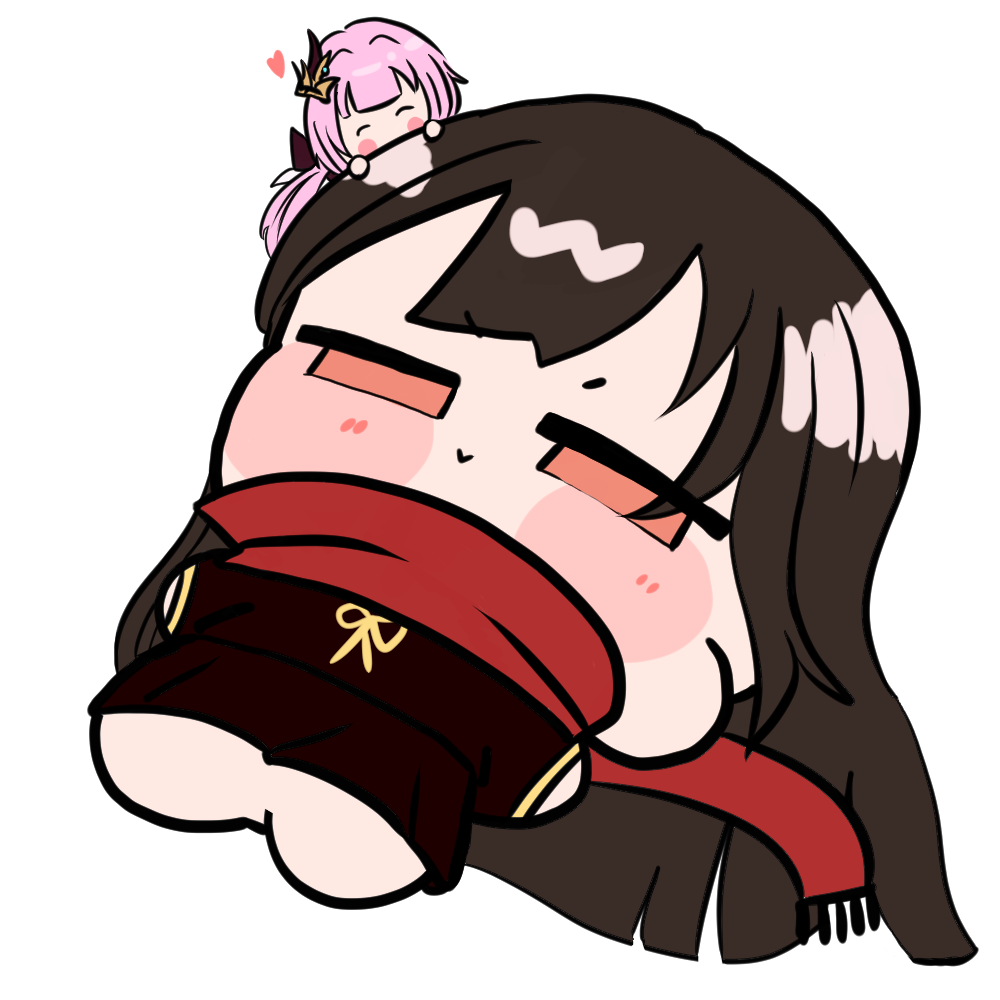
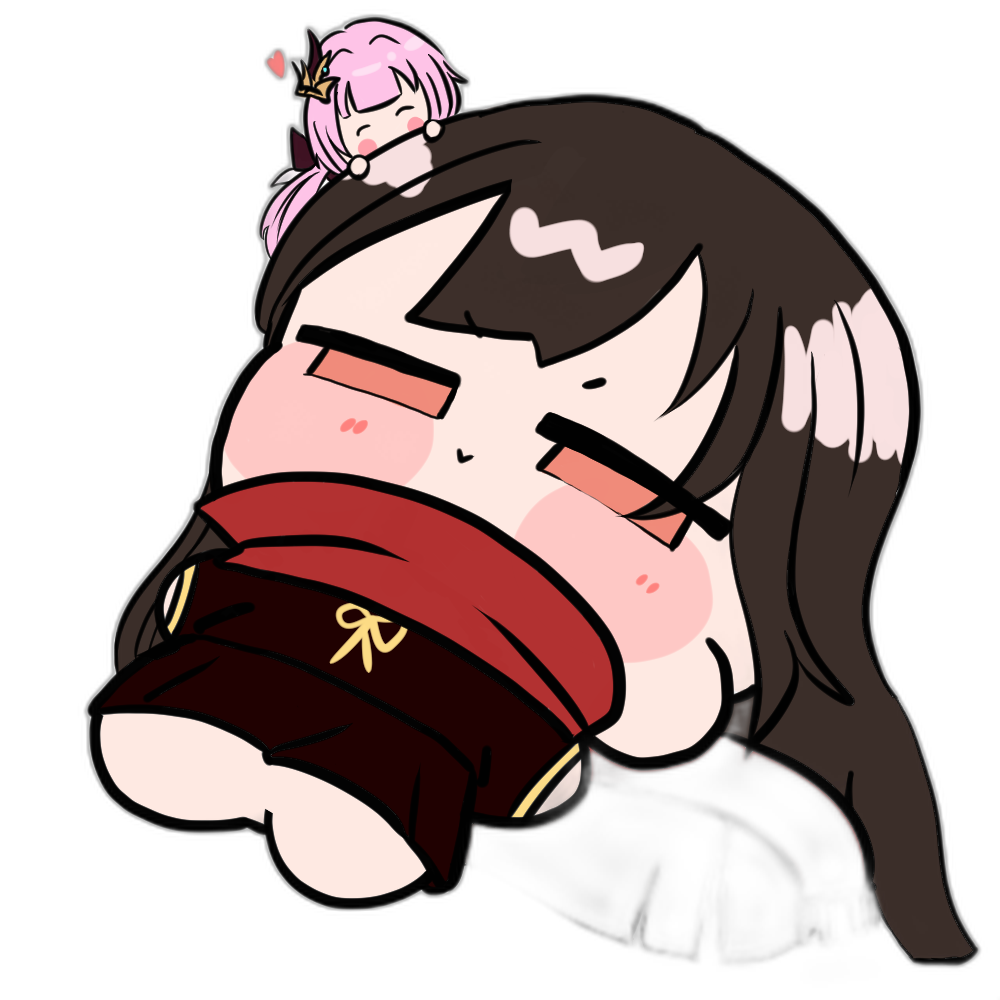
update: transparent portraits, remove voice section, refine about copy & links

diff --git a/index.html b/index.html
@@ -5,7 +5,7 @@
 <meta name="viewport" content="width=device-width, initial-scale=1.0" />
 <title>睿諳 Eric｜TRPG GM / player</title>
 <meta name="description" content="睿諳 Eric — TRPG GM 自介。擅長 DND5e，帶團以沉浸感與戲劇化為核心，歡迎玩家大膽嘗試。" />
-<link rel="icon" type="image/jpeg" href="icon.jpg" />
+<link rel="icon" type="image/png" href="icon.png" />
 <link rel="preconnect" href="https://fonts.googleapis.com" />
 <link rel="preconnect" href="https://fonts.gstatic.com" crossorigin />
 <link href="https://fonts.googleapis.com/css2?family=Noto+Sans+TC:wght@300;400;500;700&family=Noto+Serif+TC:wght@500;700;900&family=Cormorant+Garamond:ital,wght@0,500;0,600;1,500&display=swap" rel="stylesheet" />
@@ -19,14 +19,13 @@
 <header class="nav">
   <div class="nav__brand">
     <span class="nav__mark">睿諳 · Eric</span>
-    <span class="nav__sub">TRPG 人</span>
+    <span class="nav__sub">我愛TRPG</span>
   </div>
   <nav class="nav__links">
     <a href="#about">關於</a>
     <a href="#style">帶團風格</a>
-    <a href="#voice">語音規範</a>
     <a href="#custom">設定原則</a>
-    <a href="#run">可帶劇本</a>
+    <a href="#run">可帶系統</a>
     <a href="#contact">連結</a>
   </nav>
 </header>
@@ -58,7 +57,7 @@
 
       <div class="hero__portrait">
         <div class="portrait-frame">
-          <img src="icon.jpg" alt="睿諳 Eric 頭像" />
+          <img src="icon.png" alt="睿諳 Eric 頭像" />
         </div>
         <div class="portrait-chibi">
           <img src="gm_portrait.png" alt="睿諳 Eric Q 版立繪" />
@@ -73,15 +72,15 @@
   <section class="section" id="about">
     <div class="section__head">
       <span class="section__index">01</span>
-      <h2 class="section__title">關於 GM</h2>
-      <p class="section__sub">About the Game Master</p>
+      <h2 class="section__title">關於我</h2>
+      <p class="section__sub">About Me</p>
     </div>
     <div class="about">
       <div class="about__card">
         <p>
           大家好，我是 <strong>睿諳 Eric</strong>，
           平常是帶 <strong>DND 5e</strong> 比較多的 GM。
-          對我來說，無論是熱血、輕鬆，還是恐怖的團，最重要的都是──<em>沉浸於其中</em>。
+          對我來說，無論是熱血、輕鬆，還是恐怖的團，最重要的都是──沉浸於其中。
         </p>
         <p>
           因此我喜歡利用<strong>場景、對話、甚至是音樂</strong>去營造沉浸感；
@@ -94,15 +93,24 @@
           我喜愛玩家做大膽或有趣的嘗試，超出我預定的走向，
           對我來說既是挑戰、也很好玩。
         </p>
+        <p>
+          我有列出來的劇本可以找我帶，或是也歡迎來委託我帶特定的劇本或客製化長戰役。
+        </p>
+        <p>
+          <strong>找我跑團隨時歡迎！</strong>。
+        </p>
+        <p>
+          時間部分會有些忙碌，但只要提前一個月左右敲定都可以配合。
+        </p>
       </div>
       <aside class="about__side">
         <div class="fact">
           <span class="fact__label">主要系統</span>
-          <span class="fact__value">DND 5e</span>
+          <span class="fact__value">DND 5e ·銀劍的星辰騎士</span>
         </div>
         <div class="fact">
           <span class="fact__label">擅長氛圍</span>
-          <span class="fact__value">沉浸 · 戲劇 · 恐怖</span>
+          <span class="fact__value">沉浸 · 戲劇 · 歡樂</span>
         </div>
         <div class="fact">
           <span class="fact__label">帶團態度</span>
@@ -111,6 +119,10 @@
         <div class="fact">
           <span class="fact__label">新手友善</span>
           <span class="fact__value">可約創卡教學</span>
+        </div>
+        <div class="fact">
+          <span class="fact__label">團務類型</span>
+          <span class="fact__value">網路語音為主 · 文字／面團為輔</span>
         </div>
       </aside>
     </div>
@@ -167,69 +179,36 @@
         <div class="card__num">VI</div>
         <h3 class="card__title">新手友善</h3>
         <p class="card__desc">
-          第一次玩 DND 也沒關係，可另約時間進行<strong>創卡教學</strong>
-          與角色細節討論，一起把角色立起來。
+          第一次玩 TRPG 也沒關係，可另約時間進行<strong>創卡教學</strong>
+          與角色細節討論，一起把角色建立起來就可以了。
         </p>
       </article>
     </div>
   </section>
 
-  <section class="section" id="voice">
-    <div class="section__head">
-      <span class="section__index">03</span>
-      <h2 class="section__title">語音規範</h2>
-      <p class="section__sub">Voice Guidelines</p>
-    </div>
-    <div class="duo">
-      <div class="duo__item">
-        <h3 class="duo__title">場內</h3>
-        <p class="duo__body">
-          帶團時本人會比較嗨，語音主要用於帶節奏與表演，
-          場內討論、動作宣言歡迎踴躍開麥。
-        </p>
-      </div>
-      <div class="duo__divider" aria-hidden="true"></div>
-      <div class="duo__item">
-        <h3 class="duo__title">場外</h3>
-        <p class="duo__body">
-          正事以<strong>文字為主</strong>。需要專門討論或說明時也是文字溝通優先，
-          語音主要拿來「場外發瘋」閒聊用途。
-        </p>
-      </div>
-      <div class="duo__divider" aria-hidden="true"></div>
-      <div class="duo__item">
-        <h3 class="duo__title">Que 人</h3>
-        <p class="duo__body">
-          如果對應的玩家剛好在，我會主動語音 que 人。
-          其他時間不強制，舒服的步調優先。
-        </p>
-      </div>
-    </div>
-  </section>
-
   <section class="section" id="custom">
     <div class="section__head">
-      <span class="section__index">04</span>
+      <span class="section__index">03</span>
       <h2 class="section__title">角色設定原則</h2>
       <p class="section__sub">Character Customization</p>
     </div>
     <div class="quote-block">
       <p class="quote-block__text">
-        「既然已經夠受限了，那就<strong>加爆他</strong>吧，這才好玩。」
+        「都來玩TRPG了，那就<strong>加爆他</strong>吧，這才好玩。」
       </p>
       <ul class="rule-list">
-        <li><span>01</span>秘密本身沒有寫到的，你可以自由擴充。</li>
-        <li><span>02</span>只要<strong>不與秘密互相矛盾</strong>，都可以加。</li>
+        <li><span>01</span>原則上會按照官方規則進行，但進行中以團務順暢為主。</li>
+        <li><span>02</span>規則沒有限制的部分，歡迎自由擴充自由擴充！</li>
         <li><span>03</span>擴充方向不限：背景、人際、習慣、小物、信念、怪癖。</li>
-        <li><span>04</span>不確定行不行的，<strong>來問我一聲</strong>，我們一起調整。</li>
+        <li><span>04</span>任何不確定的地方，<strong>來問我一聲</strong>，我們一起調整根討論就好。</li>
       </ul>
     </div>
   </section>
 
   <section class="section" id="run">
     <div class="section__head">
-      <span class="section__index">05</span>
-      <h2 class="section__title">目前可帶劇本</h2>
+      <span class="section__index">04</span>
+      <h2 class="section__title">目前可帶系統/劇本</h2>
       <p class="section__sub">Currently Available Scenarios</p>
     </div>
 
@@ -276,7 +255,7 @@
 
   <section class="section" id="contact">
     <div class="section__head">
-      <span class="section__index">06</span>
+      <span class="section__index">05</span>
       <h2 class="section__title">連結 / 聯絡</h2>
       <p class="section__sub">Links &amp; Contact</p>
     </div>
@@ -315,24 +294,14 @@
     </div>
 
     <div class="links">
-      <a class="link-card" href="https://ericwang01129.github.io/personalweb/" target="_blank" rel="noopener">
-        <span class="link-card__label">Personal Web</span>
-        <span class="link-card__title">個人網站</span>
-        <span class="link-card__host">ericwang01129.github.io</span>
-      </a>
       <a class="link-card link-card--plurk" href="https://www.plurk.com/ericwang01129" target="_blank" rel="noopener">
         <span class="link-card__label">Plurk</span>
         <span class="link-card__title">噗浪　@ericwang01129</span>
         <span class="link-card__host">plurk.com</span>
       </a>
-      <a class="link-card" href="https://twtaichungtrpg.weebly.com/gmintro/eric2668923" target="_blank" rel="noopener">
-        <span class="link-card__label">GM Intro</span>
-        <span class="link-card__title">台中 TRPG ‧ GM 介紹頁</span>
-        <span class="link-card__host">twtaichungtrpg.weebly.com</span>
-      </a>
       <a class="link-card" href="https://docs.google.com/spreadsheets/d/1qaFRh_afMHn3Cic2g0D_mA1LK4wx4jQMWtgRkd-EBUM/edit?usp=sharing" target="_blank" rel="noopener">
-        <span class="link-card__label">Records</span>
-        <span class="link-card__title">跑團紀錄表</span>
+        <span class="link-card__label">Preferences</span>
+        <span class="link-card__title">帶團 / 跑團喜好</span>
         <span class="link-card__host">Google Sheets</span>
       </a>
     </div>

diff --git a/style.css b/style.css
@@ -269,6 +269,8 @@ body::after {
   overflow: hidden;
   border: 1px solid var(--c-border-2);
   box-shadow: var(--shadow-2), 0 0 0 10px rgba(127, 211, 224, 0.05);
+  background:
+    radial-gradient(circle at 50% 40%, rgba(127, 211, 224, 0.22) 0%, rgba(18, 40, 55, 0.85) 60%, rgba(7, 20, 29, 0.95) 100%);
 }
 .portrait-frame::before {
   content: "";
